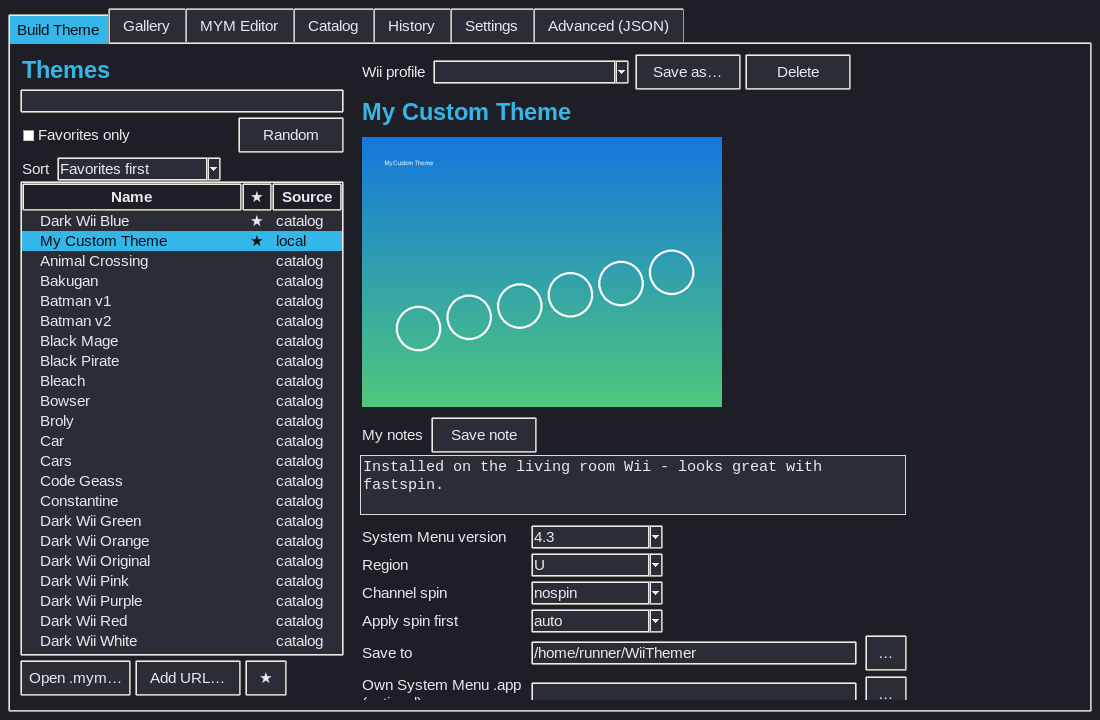
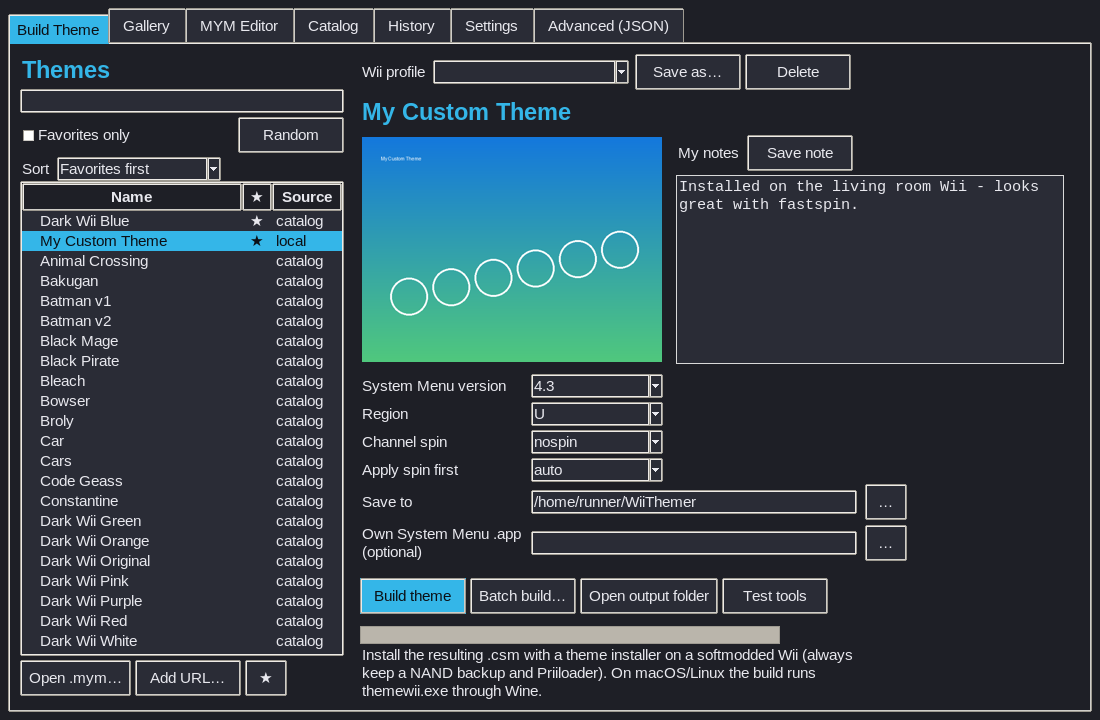
v2.2.0: keep log panel visible at default size; screenshots in README and website

Changed region(s): [[0.3091, 0.1833, 0.8655, 0.9778], [0.8964, 0.2444, 0.9582, 0.275], [0.34, 0.2139, 0.4018, 0.2444]]

diff --git a/docs/index.html b/docs/index.html
@@ -44,6 +44,7 @@ footer{color:var(--muted);margin-top:40px;font-size:14px}a{color:var(--accent)}
   <a href="https://github.com/A-Hackers-Guide/wiithemer-desktop/releases/latest/download/WiiThemerDesktop-Linux-x86_64.AppImage">Linux x86_64 (.AppImage)</a>
   <a href="https://github.com/A-Hackers-Guide/wiithemer-desktop/releases/latest/download/WiiThemerDesktop-Linux-aarch64.AppImage">Linux ARM64 (.AppImage)</a>
 </div>
+<p><img src="screenshots/build.png" alt="WiiThemer Desktop Build Theme tab" style="width:100%;max-width:880px;border-radius:12px;display:block;margin:0 auto"></p>
 <h2>How it works</h2>
 <p>Same steps as wiithemer.org: pick a theme, pick your System Menu version (4.0 to 4.3), pick your region (U, E, J, K), pick a channel spin, then build. The app makes a <code>.csm</code> file you install with a theme installer on a softmodded Wii. Always keep a NAND backup and Priiloader.</p>
 <p>What you can change: theme source (catalog, a local .mym, or any URL), the theme catalog itself, the spin mod, the output file name, the exact themewii build commands, extra System Menu versions, the tools and Wine command, plus colors, fonts and layout. There's also a built-in .mym editor and a raw JSON editor for every setting.</p>

diff --git a/app/wiithemer_desktop.py b/app/wiithemer_desktop.py
@@ -581,7 +581,8 @@ class App(tk.Tk):
 
         logf = ttk.Frame(self)
         if a.get("show_log", True):
-            logf.pack(fill="x", padx=8, pady=(0, 8))
+            # Pack at the bottom before the notebook claims the space, so it never gets squeezed out.
+            logf.pack(side="bottom", fill="x", padx=8, pady=(0, 8), before=nb)
         self.log_box = tk.Text(logf, height=int(a.get("log_height", 8)), **self.text_opts)
         self.log_box.pack(fill="x")
         self.log(f"{APP_NAME} {APP_VERSION} on {platform.system()} - settings: {SETTINGS_FILE}")
@@ -1876,8 +1877,10 @@ def selftest():
     # The Build button must be fully visible at the default window size.
     app.nb.select(app.tab_frames["build"])
     app.update()
-    bottom = app.build_button.winfo_rooty() + app.build_button.winfo_height()
-    assert bottom <= app.winfo_rooty() + app.winfo_height(), (bottom, app.winfo_rooty(), app.winfo_height())
+    window_bottom = app.winfo_rooty() + app.winfo_height()
+    for widget in (app.build_button, app.log_box):
+        bottom = widget.winfo_rooty() + widget.winfo_height()
+        assert widget.winfo_ismapped() and bottom <= window_bottom, (str(widget), bottom, window_bottom)
     assert len(app.catalog) > 0 and os.path.exists(os.path.join(resource_dir(), "tools", "themewii.exe"))
     for i in range(len(app.nb.tabs())):
         app.nb.select(i)

diff --git a/README.md b/README.md
@@ -16,6 +16,10 @@
   <a href="https://a-hackers-guide.github.io/wiithemer-desktop/"><img alt="Website" src="https://img.shields.io/badge/website-online-34b6e8"></a>
 </p>
 
+<p align="center">
+  <img src="docs/screenshots/build.png" width="820" alt="WiiThemer Desktop: the Build Theme tab">
+</p>
+
 ---
 
 ## Table of contents
@@ -204,6 +208,19 @@ The app makes a `.csm` file. To install it you need a **softmodded Wii** (with t
 ---
 
 ## The app, tab by tab
+
+| | |
+|---|---|
+| ![Build Theme tab](docs/screenshots/build.png) | ![MYM Editor tab](docs/screenshots/mym.png) |
+| **Build Theme**: pick a theme, version, region and spin, then build | **MYM Editor**: look inside and edit `.mym` files |
+| ![History tab](docs/screenshots/history.png) | ![Settings tab](docs/screenshots/settings.png) |
+| **History**: past builds with checksums and Copy to SD card | **Settings**: appearance, layout, language, build, tools |
+| ![Wii Classic preset](docs/screenshots/preset-wii-classic.png) | ![Dark Wii Red preset](docs/screenshots/preset-dark-wii-red.png) |
+| The **Wii Classic** color preset | The **Dark Wii Red** color preset |
+| ![High Contrast preset](docs/screenshots/preset-high-contrast.png) | ![Spanish interface](docs/screenshots/language-espanol.png) |
+| The **High Contrast** preset | The interface **in Spanish** |
+
+Screenshots use an original demo theme. To see the real built-in themes, browse the [website gallery](https://a-hackers-guide.github.io/wiithemer-desktop/).
 
 ### Build Theme
 
@@ -892,6 +909,13 @@ This project is licensed under the **GNU General Public License v2.0**, the same
 ---
 
 ## Changelog
+
+### v2.2.0
+- Fix: the **Build theme button was cut off** at the default window size (since v1.8). The preview and notes now sit side by side, and a self-test checks the button stays visible.
+- Fix: **read-only dropdowns** (Wii profile, Sort, Language) were hard to read in dark presets.
+- Fix: the **log panel** could be squeezed out of view at the default window size.
+- Smaller default preview (300 px) and log (6 lines).
+- **Screenshots** in the README and on the website, made by a new `--screenshots` mode and a manual "Screenshots" workflow. They use an original demo theme, so no third-party theme art is stored in this repo.
 
 ### v2.1.0
 - **Interface scale**, for high-resolution screens and accessibility.
